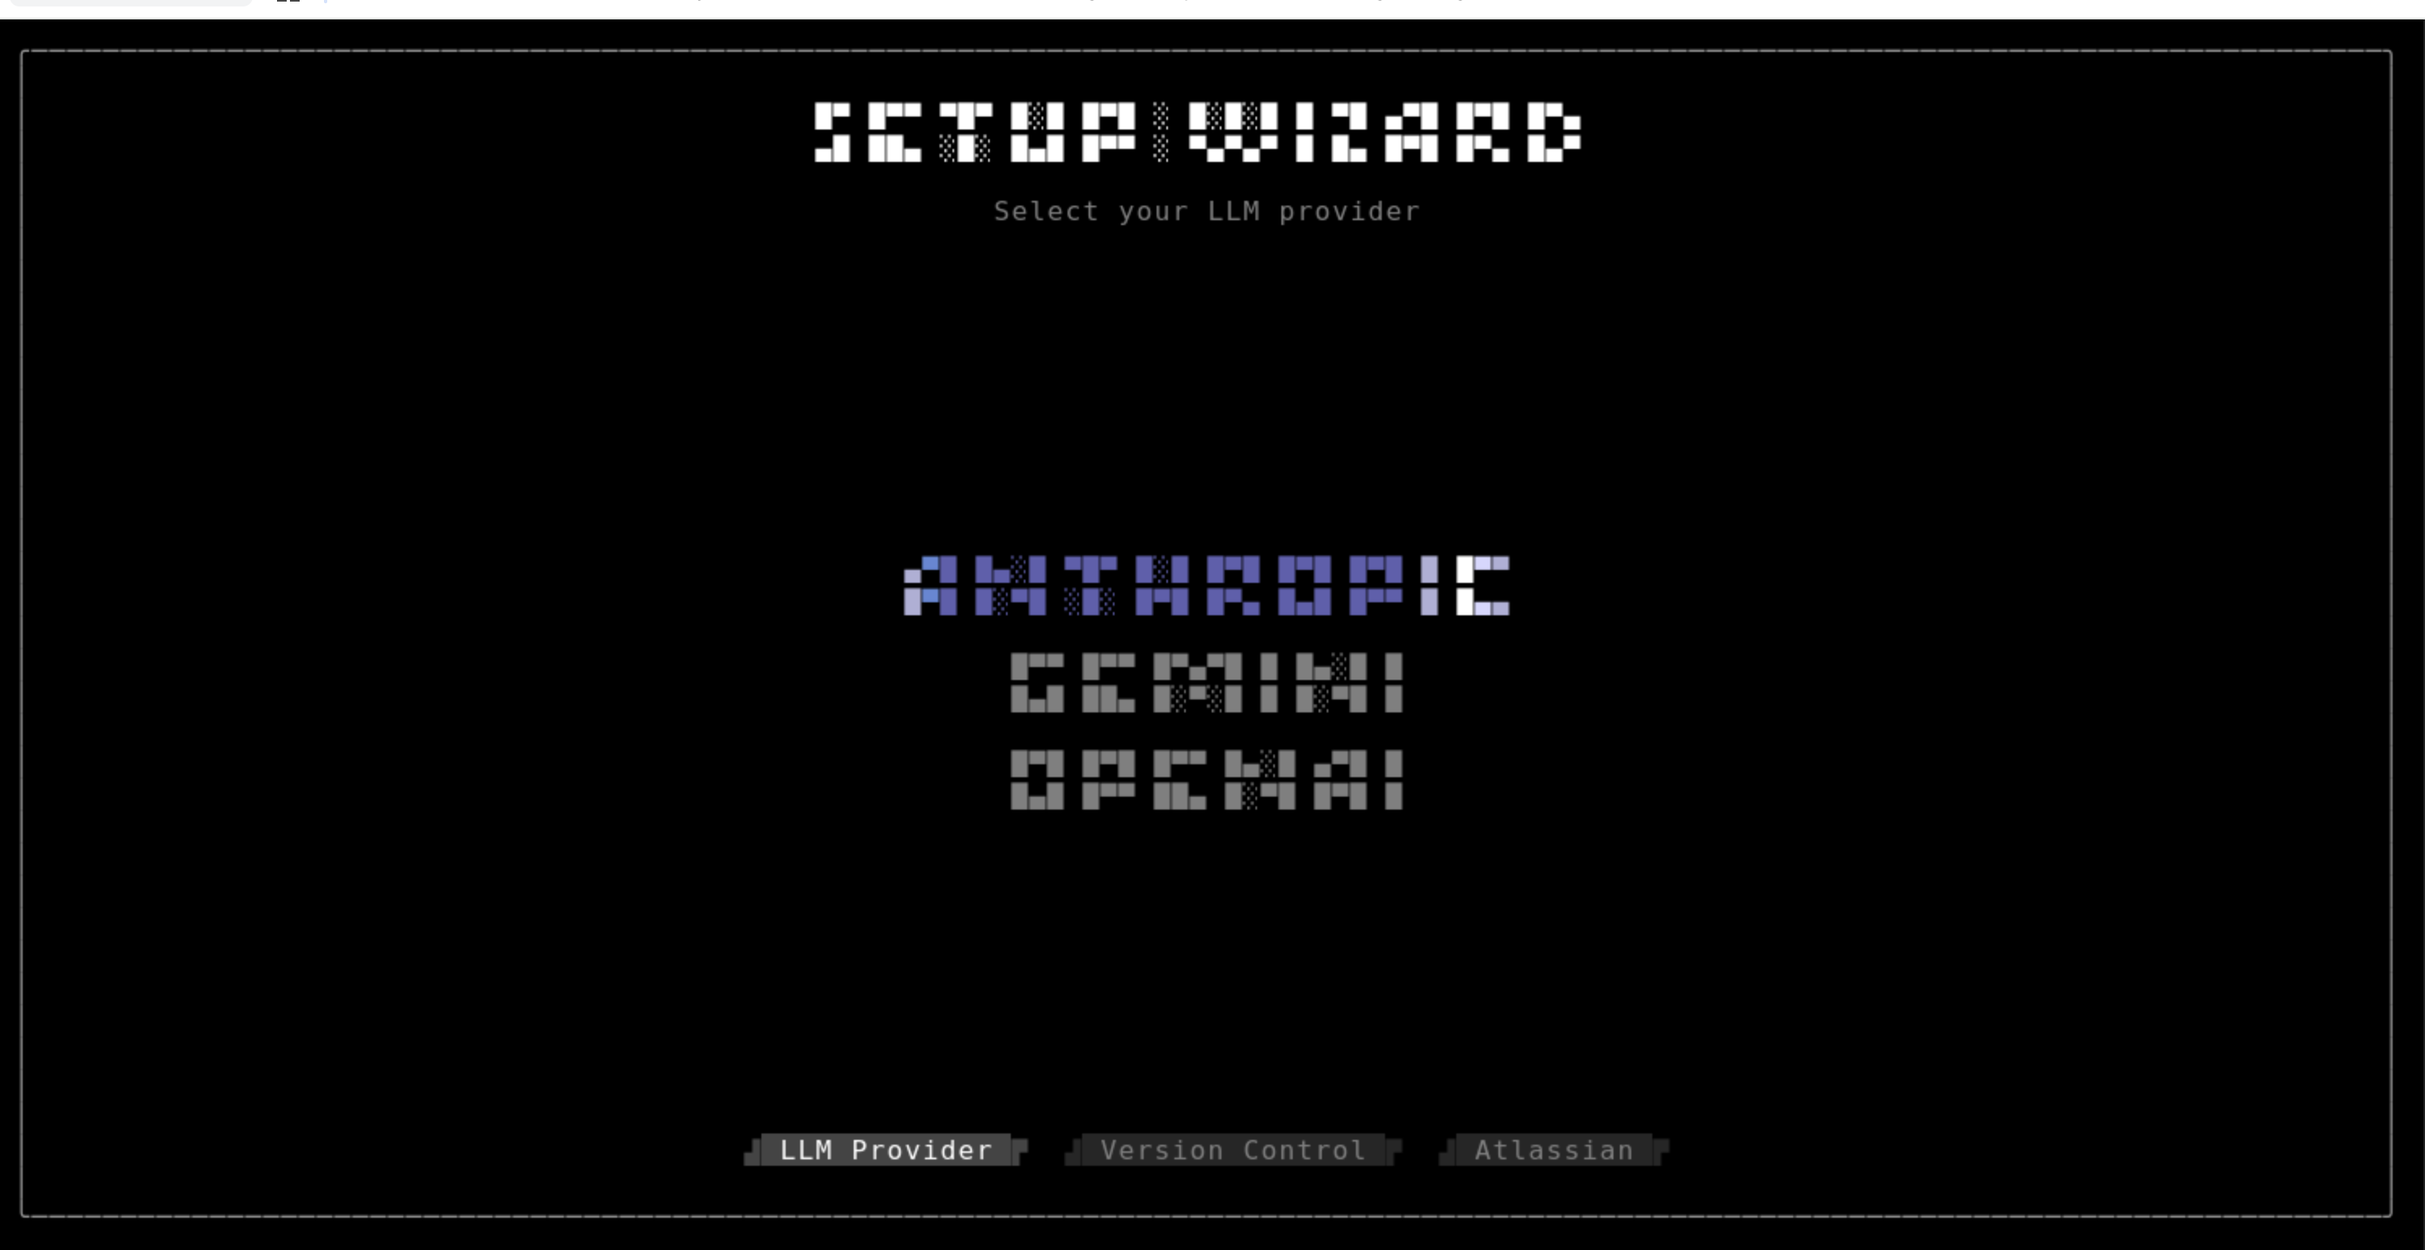
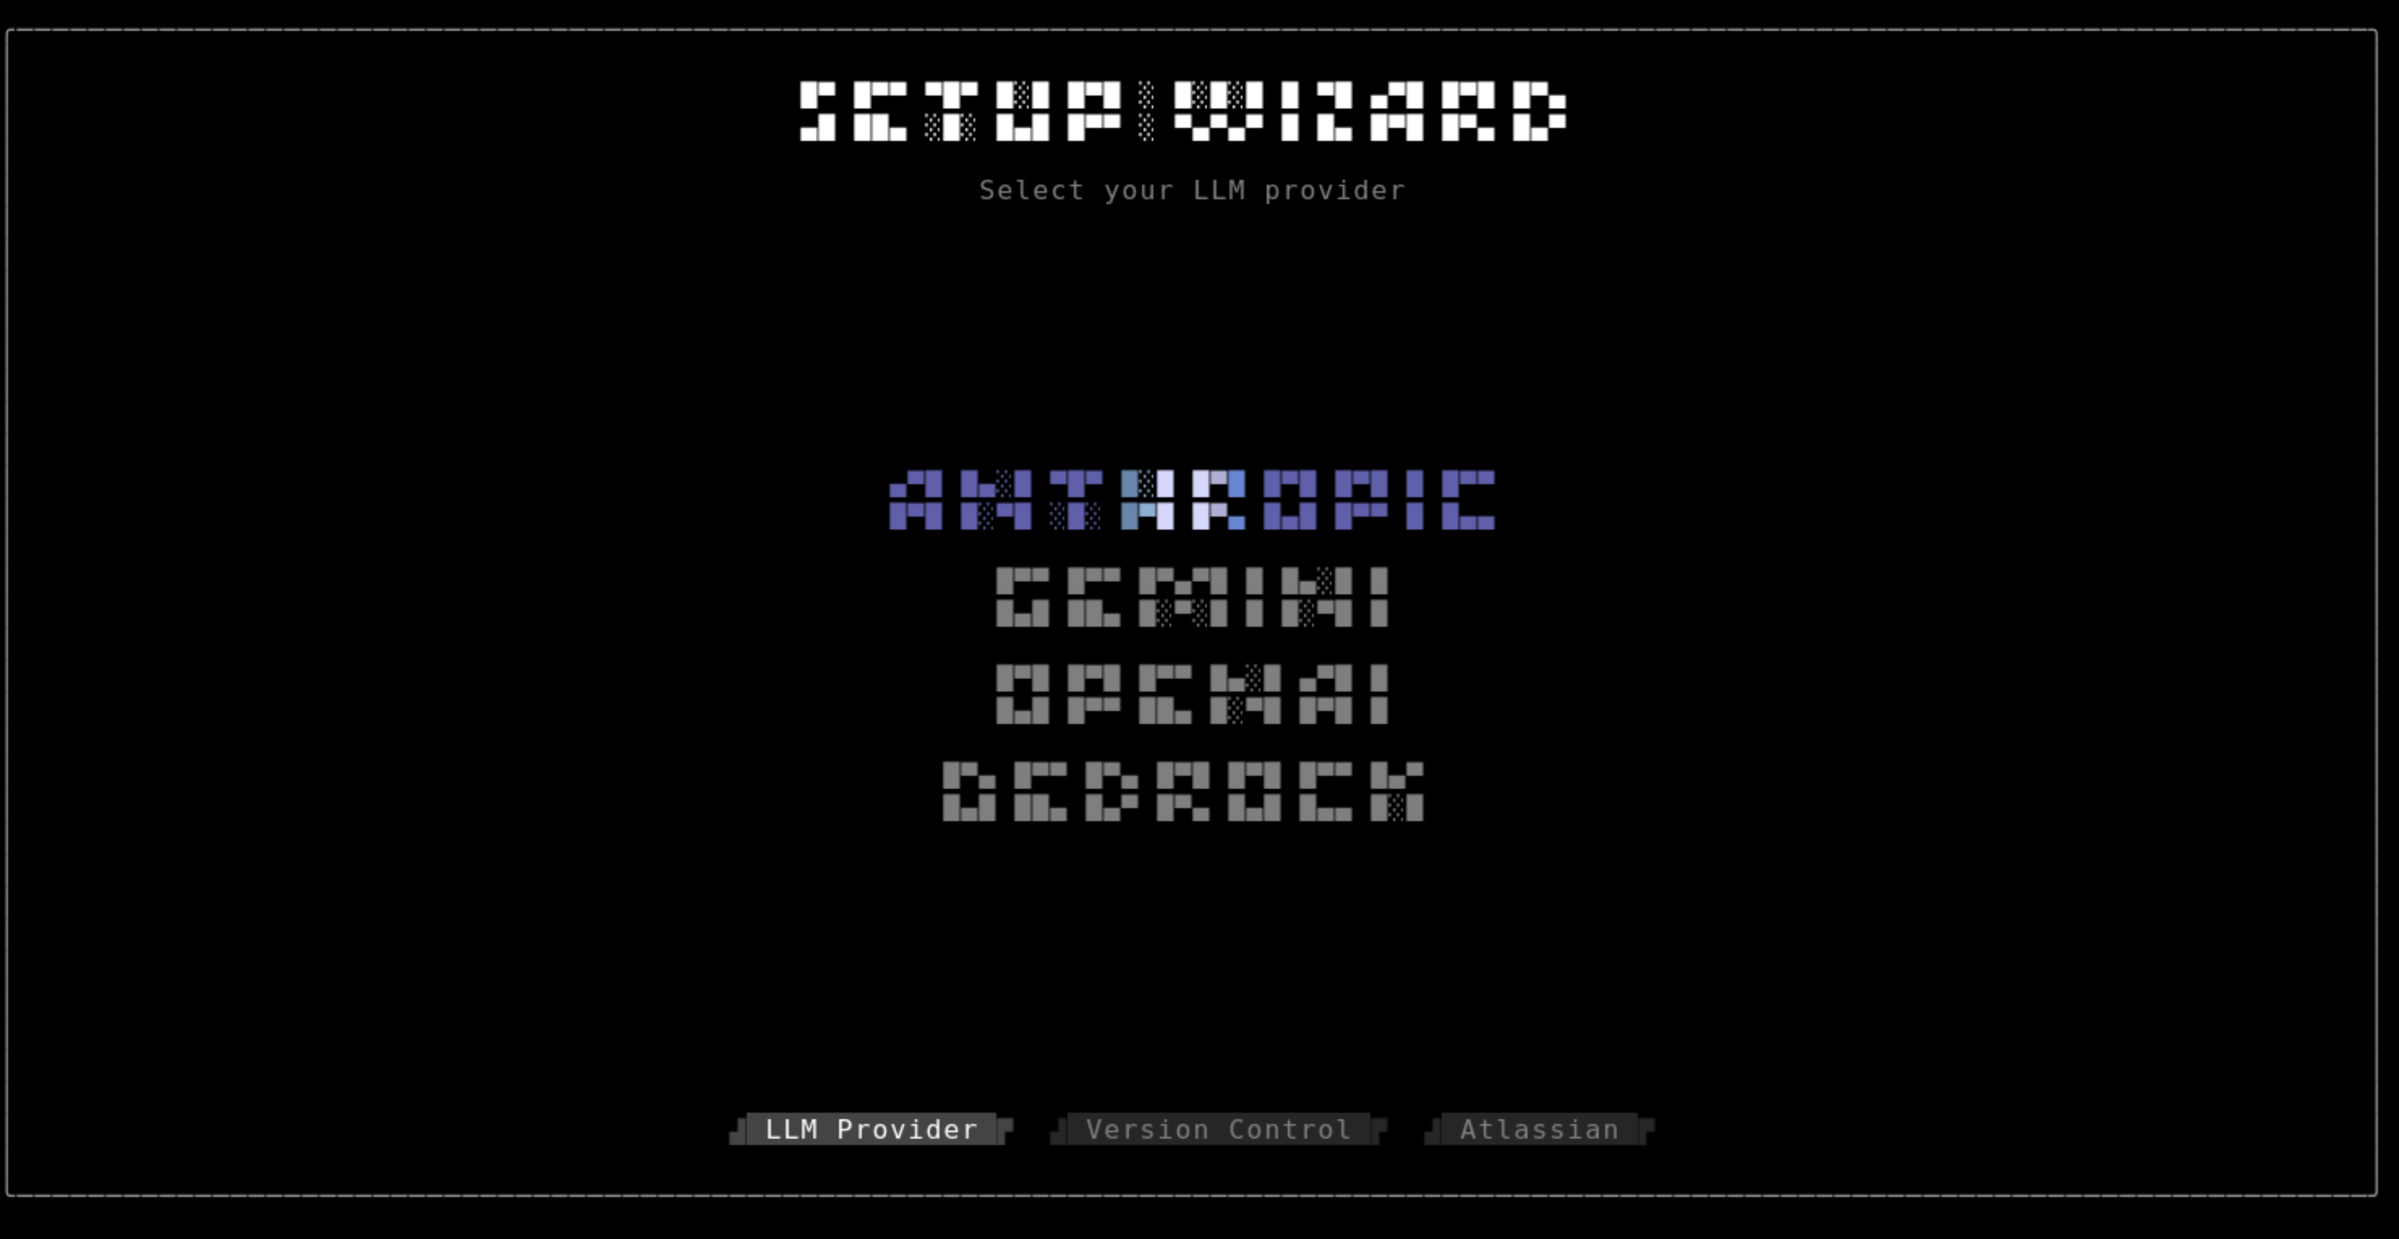
add TUI recommendation for complex projects in OpenClaw skill (#15)
* add TUI recommendation for complex projects in OpenClaw skill

When the scrum-planner skill detects a multi-feature project (3+ features,
5+ engineers, 3+ sprints), it shows brew/pipx install commands and
suggests the full TUI for interactive editing. Never blocks generation.

Also updates CLAUDE.md with Bedrock, OpenClaw, and deployment docs.

* document TUI recommendation feature in README

---------

Changed region(s): [[0.0, 0.0, 1.0, 1.0], [0.3727, 0.3686, 0.6212, 0.6758]]

diff --git a/CLAUDE.md b/CLAUDE.md
@@ -4,7 +4,7 @@ This file provides guidance to Claude Code (claude.ai/code) when working with co
 
 ## Project
 
-Terminal-based AI Scrum Master agent built with LangGraph, LangChain, and Anthropic Claude (with OpenAI and Google as alternative providers). Decomposes projects into epics, user stories, tasks, and sprint plans. Version 1.0.0.
+Terminal-based AI Scrum Master agent built with LangGraph, LangChain, and Anthropic Claude (with OpenAI, Google, and AWS Bedrock as alternative providers). Decomposes projects into epics, user stories, tasks, and sprint plans. Version 1.2.0. Deployed on AWS Lightsail via OpenClaw with Bedrock.
 
 ## Commands
 
@@ -92,7 +92,7 @@ src/scrum_agent/
     state.py            — ScrumState TypedDict, artifact dataclasses, enums
     graph.py            — Graph compilation and wiring (create_graph())
     nodes.py            — Node functions (intake, analyzer, generators, planner)
-    llm.py              — LLM provider factory (Anthropic/OpenAI/Google, lazy imports)
+    llm.py              — LLM provider factory (Anthropic/OpenAI/Google/Bedrock, lazy imports)
   prompts/
     system.py           — Base system prompt (Scrum Master persona)
     intake.py           — 30 questions, smart/standard modes, adaptive templates, validation
@@ -224,11 +224,12 @@ Tool modules are imported **inside** `get_tools()`, not at module level. This is
 
 ## LLM Provider Conventions
 
-`agent/llm.py` provides `get_llm()` — a factory supporting Anthropic (default), OpenAI, Google:
+`agent/llm.py` provides `get_llm()` — a factory supporting Anthropic (default), OpenAI, Google, and AWS Bedrock:
 - Each provider is **lazy-imported** inside an if-branch so the module works even if optional packages aren't installed
 - Provider selected via `LLM_PROVIDER` env var; model override via `LLM_MODEL`
-- Default models: `claude-sonnet-4-20250514` (Anthropic), `gpt-4o` (OpenAI), `gemini-2.0-flash` (Google)
-- Install optional providers: `uv sync --extra openai` or `uv sync --extra google`
+- Default models: `claude-sonnet-4-20250514` (Anthropic), `gpt-4o` (OpenAI), `gemini-2.0-flash` (Google), `us.anthropic.claude-sonnet-4-20250514-v1:0` (Bedrock)
+- Install optional providers: `uv sync --extra openai` / `--extra google` / `--extra bedrock`
+- **Bedrock** uses IAM credentials (no API key) — auto-detects AWS profile from `~/.aws/config` via `get_aws_profile()` in `config.py`. On Lightsail, uses `[profile assumed]` with `credential_source=Ec2InstanceMetadata`. The boto3 session is created with explicit profile + increased read timeout (300s) for cross-region inference profiles.
 
 ## State Schema Conventions
 
@@ -300,7 +301,9 @@ The `_dict_to_*()` functions in `sessions.py` use `.get()` for optional fields s
 - `ANTHROPIC_API_KEY` — required when using Anthropic (default provider)
 - `OPENAI_API_KEY` — required when `LLM_PROVIDER=openai`
 - `GOOGLE_API_KEY` — required when `LLM_PROVIDER=google`
-- `LLM_PROVIDER` — `anthropic` (default), `openai`, `google`
+- `AWS_REGION` — required when `LLM_PROVIDER=bedrock` (auto-detected from `~/.aws/config` on Lightsail)
+- `AWS_PROFILE` — optional, auto-detected from `~/.aws/config` (looks for profiles with `credential_source` or `role_arn`)
+- `LLM_PROVIDER` — `anthropic` (default), `openai`, `google`, `bedrock`
 - `LLM_MODEL` — optional model override for the selected provider
 - `GITHUB_TOKEN`, `AZURE_DEVOPS_TOKEN` — optional, for repo context tools
 - `AZURE_DEVOPS_ORG_URL`, `AZURE_DEVOPS_PROJECT`, `AZURE_DEVOPS_TEAM` — optional, for Azure DevOps board sync
@@ -315,10 +318,12 @@ The `_dict_to_*()` functions in `sessions.py` use `.get()` for optional fields s
 ## Version Management
 
 Version is defined in two places that **must be kept in sync**:
-- `src/scrum_agent/__init__.py`: `__version__ = "1.0.0"`
-- `pyproject.toml`: `version = "1.0.0"`
+- `src/scrum_agent/__init__.py`: `__version__ = "1.2.0"`
+- `pyproject.toml`: `version = "1.2.0"`
 
 The `__version__` is imported by `cli.py` for the `--version` flag. Package entry point: `scrum-agent = "scrum_agent.cli:main"`.
+
+Releasing: bump version in both files and merge to main. The `publish.yml` workflow triggers on `v*` tag push → PyPI → GitHub Release → Homebrew tap update.
 
 ## CI/CD
 
@@ -330,8 +335,41 @@ Workflows in `.github/workflows/`:
 | `publish.yml` | Tag push `v*` | test → build → PyPI publish (OIDC) → GitHub Release → Homebrew tap update |
 | `smoke.yml` | Weekly cron | Live API smoke tests |
 | `claude.yml` | PR | Claude Code review |
+| `claude-code-review.yml` | PR | Claude Code review (alternate) |
 
 The `publish.yml` dispatches a `repository_dispatch` event to `omardin14/homebrew-tap` to auto-update the formula SHA256 and version on each release.
+
+## OpenClaw Skill
+
+The `skills/scrum-planner/` directory contains an OpenClaw skill that replicates the smart intake TUI experience conversationally. OpenClaw acts as the front-end (asks questions, handles follow-ups), then invokes `scrum-agent --non-interactive` as the back-end.
+
+**How it works:**
+1. OpenClaw asks ~7 essential questions (matching `SMART_ESSENTIALS` from `prompts/intake.py`)
+2. Answers map to: Q1/Q6/Q8 → CLI args, everything else → temp `SCRUM.md` in CWD
+3. Invokes: `scrum-agent --non-interactive --description "Q1" --team-size Q6 --sprint-length Q8 --output json`
+4. `_load_user_context()` in `nodes.py` reads the SCRUM.md from CWD, `_keyword_extract_fallback()` does keyword scanning
+5. JSON output is parsed and presented to the user
+
+**Key files:**
+- `skills/scrum-planner/SKILL.md` — agent instructions (persona, conversation flow, SCRUM.md generation, CLI invocation, output formatting)
+- `skills/scrum-planner/README.md` — installation and usage docs
+- `skills/scrum-planner/scripts/` — helper scripts for the skill
+- `skills/scrum-planner/references/` — reference material
+
+**Installing the skill:**
+```bash
+scrum-agent --install-skill          # installs to ~/.openclaw/skills/
+scrum-agent --install-skill /path    # custom directory
+```
+
+## Deployment (AWS Lightsail)
+
+scrum-agent is deployed on AWS Lightsail via the OpenClaw blueprint:
+- OpenClaw comes pre-installed on the Lightsail instance
+- Uses Amazon Bedrock (Claude Sonnet 4.6) via IAM instance role — no API key needed
+- Bedrock IAM setup script: `curl -s https://d25b4yjpexuuj4.cloudfront.net/scripts/lightsail/setup-lightsail-openclaw-bedrock-role.sh | bash -s -- <instance-name> <region>`
+- The setup wizard auto-detects the AWS region from `~/.aws/config` and the Bedrock model from OpenClaw's `models.json`
+- See README section "Deploy on AWS Lightsail (OpenClaw)" for full guide
 
 ## Git Conventions
 

diff --git a/TODO.md b/TODO.md
@@ -892,32 +892,6 @@ _OpenClaw comes pre-installed on the Lightsail OpenClaw blueprint. Use Claude wi
 - [x] Verify headless mode: `scrum-agent --non-interactive --description "Build a todo app" --output json`
 - [x] Verify SCRUM.md keyword extraction works with a sample file
 
----
-
-### 14B: Teleport (Zero-Trust Access)
-
-_Deploy Teleport on the Lightsail instance, proxy OpenClaw through it, close all public ports except Teleport HTTPS._
-
-#### Teleport Cluster
-
-- [ ] Install Teleport on the Lightsail instance (self-hosted, single-node)
-- [ ] Configure with domain name and Let's Encrypt TLS
-- [ ] Create initial admin user and role
-- [ ] Verify SSH access through Teleport (`tsh ssh`)
-
-#### Application Proxy
-
-- [ ] Configure Teleport app proxy for OpenClaw web UI (internal port → Teleport HTTPS)
-- [ ] Create roles: `openclaw-admin` (full access), `openclaw-user` (skill execution only)
-- [ ] Test: access OpenClaw UI through Teleport app proxy with SSO
-
-#### Lock Down
-
-- [ ] Close SSH (22) in Lightsail firewall — all access through Teleport
-- [ ] Close OpenClaw's direct port — only accessible via Teleport app proxy
-- [ ] Verify: only Teleport HTTPS (443) is publicly accessible
-- [ ] Verify: Slack Socket Mode still works (outbound-only, unaffected by firewall changes)
-- [ ] End-to-end test: Teleport login → OpenClaw UI → trigger skill → Slack response
 
 ---
 
@@ -977,118 +951,6 @@ _Plans exceed the 50-block message limit; Canvas has no limit. Fallback chain: C
 - [ ] Handle Slack API errors (rate limits, permissions, Canvas API unavailability)
 - [x] Show progress updates in thread: "Analysing project...", "Generating stories...", "Building sprint plan..."
 - [x] Surface actionable error messages in Slack (e.g., "API key not configured — ask an admin")
-
----
-
-### 14D: Infrastructure as Code
-
-_Terraform modules and CI/CD in this repo under `infra/`, not a separate repo._
-
-#### Directory Setup
-
-- [ ] Create `infra/` directory in scrum-jira-agent:
-  ```
-  infra/
-    terraform/
-      modules/
-        lightsail/       — instance (OpenClaw blueprint), static IP, firewall, DNS
-        teleport/        — cluster config, roles, app proxy
-        networking/      — Route53 DNS records, TLS cert automation
-      environments/
-        prod/            — root module composing all modules
-      variables.tf       — shared variables
-    scripts/
-      user-data.sh       — post-boot config (scrum-agent, Teleport, Slack tokens)
-      update-openclaw.sh — pull latest, restart service
-  ```
-- [ ] Add `infra/.gitignore` (`.terraform/`, `*.tfstate`, `*.tfstate.backup`)
-
-#### Terraform Modules
-
-- [ ] **lightsail** module — OpenClaw blueprint instance, static IP, firewall rules
-- [ ] **teleport** module — Teleport config generation, app proxy config, user/role setup
-- [ ] **networking** module — Route53 DNS records (or Lightsail DNS), TLS cert automation
-- [ ] Root module (`environments/prod/`) composing all modules with variables
-
-#### User-Data Script
-
-- [ ] scrum-agent installation (`pipx install scrum-agent`)
-- [ ] Teleport installation and initial config
-- [ ] Pull Slack tokens from AWS Secrets Manager
-- [ ] Systemd service files for Teleport
-
-#### CI/CD Workflows
-
-- [ ] `infra-plan.yml` — on PR (changes to `infra/`): `terraform plan` → post as PR comment
-- [ ] `infra-apply.yml` — on merge to main (changes to `infra/`): `terraform apply -auto-approve`
-- [ ] AWS credentials via GitHub OIDC (no long-lived keys)
-- [ ] State stored in S3 + DynamoDB lock table
-
----
-
-### 14E: Productionize
-
-_Secrets, monitoring, backups, security hardening, cost optimization._
-
-#### Secrets Management
-
-- [ ] Store all secrets in AWS Secrets Manager (Slack tokens, API keys, Teleport join token)
-- [ ] User-data script pulls secrets at boot — no secrets in Terraform state or git
-- [ ] Rotate Slack tokens and API keys on a schedule (or document manual rotation)
-
-#### Monitoring & Alerting
-
-- [ ] CloudWatch agent on Lightsail instance (CPU, memory, disk)
-- [ ] CloudWatch alarms: CPU > 80%, disk > 90%, instance health check failed
-- [ ] Application-level health check endpoint (OpenClaw + Teleport)
-- [ ] SNS topic for alerts → email or Slack notification
-
-#### Backups
-
-- [ ] Automated Lightsail snapshots (daily, retain 7 days)
-- [ ] Teleport audit log export (S3 or CloudWatch Logs)
-- [ ] Document restore procedure from snapshot
-
-#### Security Hardening
-
-- [ ] Teleport session recording enabled for audit trail
-- [ ] Fail2ban or equivalent for Teleport's HTTPS endpoint
-- [ ] Regular OS security updates (unattended-upgrades)
-- [ ] Principle of least privilege: IAM role scoped to Bedrock + Secrets Manager + S3 only
-- [ ] Review and document Slack App permissions (minimal scopes)
-
-#### Cost Optimization
-
-- [ ] Right-size Lightsail plan based on actual usage (start $10/mo, monitor for 2 weeks)
-- [ ] Lightsail bandwidth included (2 TB) — verify Slack traffic stays well within
-- [ ] Bedrock pay-per-use — monitor token costs via CloudWatch
-- [ ] Set AWS billing alarm at $30/mo threshold
-
----
-
-### 14F: Polish & Documentation
-
-_README, architecture diagram, runbook, skill docs._
-
-#### Documentation
-
-- [ ] Architecture diagram (Lightsail + Teleport + OpenClaw + Slack data flow)
-- [ ] Runbook: common operations (restart services, rotate secrets, update scrum-agent, restore from snapshot)
-- [ ] Skill documentation: how to trigger, expected questions, output format, troubleshooting
-
-#### Developer Experience
-
-- [ ] Makefile targets: `make infra-plan`, `make infra-apply`, `make ssh` (via Teleport), `make logs`
-- [ ] Local development setup: run skill locally against a test Slack workspace
-- [ ] Document how to add new OpenClaw skills alongside scrum-planner
-
-#### Nice-to-Have (post-launch)
-
-- [ ] Slack slash command (`/plan`) as an alternative trigger to @mention
-- [ ] Plan history — store past plans in S3, list recent plans via Slack command
-- [ ] Multi-workspace support — serve multiple Slack workspaces from one instance
-- [ ] Plan diff — re-run planning and show what changed since last run
-- [ ] Integration with Jira — after Canvas review, one-click push to Jira from Slack
 
 ---
 

diff --git a/src/scrum_agent/skills/scrum-planner/SKILL.md b/src/scrum_agent/skills/scrum-planner/SKILL.md
@@ -292,6 +292,37 @@ If the user overrides a default (e.g., "velocity 8" or "estimation t-shirt sizes
 
 ---
 
+## TUI Recommendation for Complex Projects
+
+After the confirmation gate and before generation, assess the project complexity. If the project is likely to produce **3+ features/epics** (based on scope, team size, sprint count, and description), show this recommendation:
+
+> "📋 *Heads up* — this looks like a multi-feature project. I'll generate the full plan here, but for the best experience (interactive editing, sprint visualisation, capacity planning), try the full TUI:"
+>
+> ```
+> # macOS
+> brew tap omardin14/tap && brew install scrum-agent
+>
+> # or via pip
+> pipx install scrum-agent
+> ```
+>
+> "Then run `scrum-agent` and select *Project Planning*. It has a full-screen dashboard where you can edit stories, adjust sprints, and push to Jira interactively."
+>
+> "I'll keep going here — just wanted you to know about the option. ☕ Generating now..."
+
+**Complexity signals** (show recommendation if 2+ of these are true):
+- Description mentions 3+ distinct features, modules, or user flows
+- Team size is 5+ engineers
+- Target sprints is 3+ (or "let the agent decide" with a broad scope)
+- Tech stack mentions multiple services (e.g., frontend + backend + mobile)
+- User mentioned integrations with 2+ third-party services
+
+**Do NOT block on this** — always proceed with generation after showing the recommendation. It's informational only.
+
+For simple projects (1-2 features, small team, 1-2 sprints), skip this message entirely.
+
+---
+
 ## Generation & Output
 
 When the user confirms (says "go"), read the reference files for detailed instructions:

diff --git a/README.md b/README.md
@@ -333,8 +333,9 @@ You should see:
 1. **Smart extraction** — the skill detects project, tech stack, team size, integrations from your message
 2. **Follow-up questions** — only asks what's missing (project type, definition of done, target sprints)
 3. **Confirmation summary** — your answers + defaults, with option to override
-4. **Background generation** — progress updates as each phase completes (~3-5 minutes)
-5. **Phase-by-phase review** — features, stories, tasks, sprint plan — each with accept/edit/regenerate
+4. **TUI recommendation** — for complex projects (3+ features, 5+ engineers), the skill suggests installing the full TUI via `brew install scrum-agent` or `pipx install scrum-agent` for interactive editing, sprint visualisation, and capacity planning. This is informational only — generation always proceeds.
+5. **Background generation** — progress updates as each phase completes (~3-5 minutes)
+6. **Phase-by-phase review** — features, stories, tasks, sprint plan — each with accept/edit/regenerate
 
 For a faster test, try quick mode:
 
